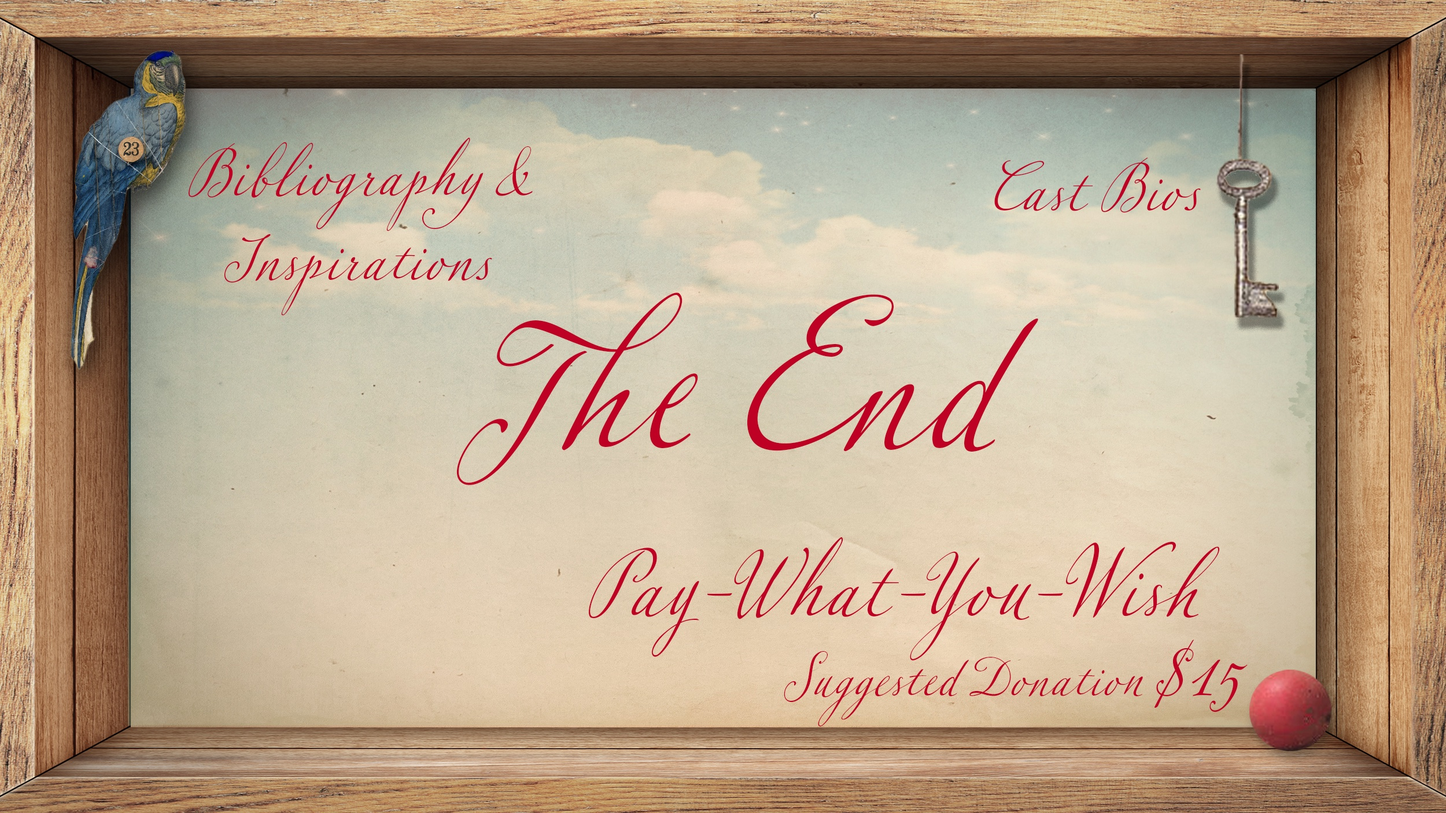
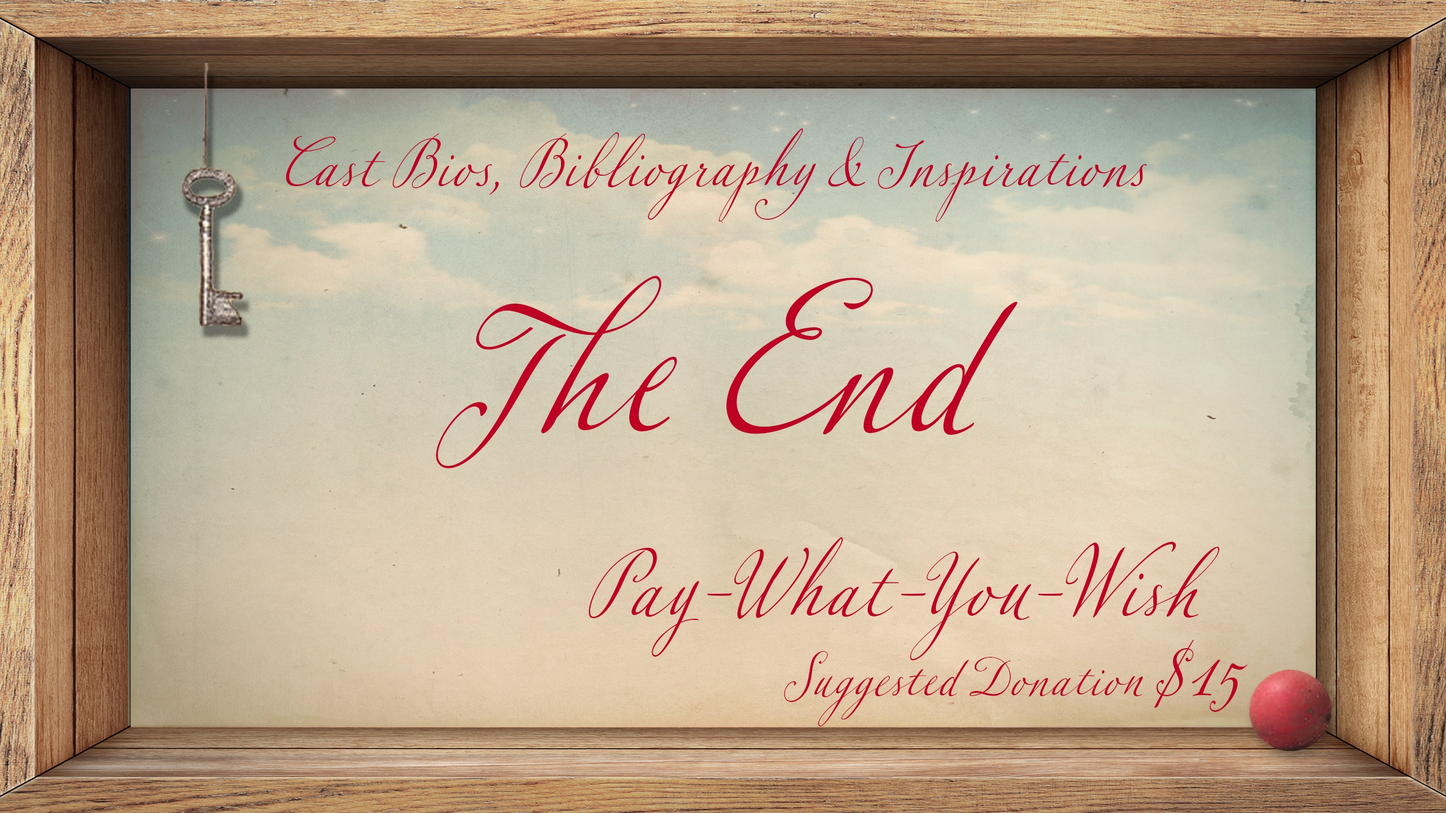
updates

Changed region(s): [[0.0312, 0.0612, 0.8112, 0.4587], [0.312, 0.3364, 0.7176, 0.6117], [0.8424, 0.1223, 0.9048, 0.4282]]

diff --git a/js/juxtapose.js b/js/juxtapose.js
@@ -244,7 +244,7 @@ function CastRoom(name, slugs) {
 
                 _.delay(function(){
                     $('.landing-credits').fadeIn();
-                }, 10000);
+                }, 7000);
             }, 2000);
         }, 3000);
     };
@@ -372,7 +372,7 @@ $('#button-play').on('click', function(){
                         $('.landing-here').fadeOut(function(){
                             _.delay(function(){
                                 prez.goto('windows-page', 30000); // 30sec
-                                windowRoom.fadeAudio(0.75, 30000);
+                                windowRoom.fadeAudio(1, 30000);
                             }, 5000); // 5sec
                         });
                     }, 5000); // 5sec

diff --git a/index.html b/index.html
@@ -42,10 +42,6 @@
             <div class="landing-credits">
                 <img class="credit-img" src="img/credits.jpg" />
 
-                <a href="https://www.happenstancetheater.com/juxtapose-tenement" target="_blank" class="room-button credits-parrot heartbeat">
-                    <img src="img/parrot.png" />
-                </a>
-
                 <a href="https://www.happenstancetheater.com/juxtapose-tenement" target="_blank" class="room-button credits-key wobble">
                     <img src="img/key.png" />
                 </a>

diff --git a/styles/happenstance.css b/styles/happenstance.css
@@ -272,11 +272,6 @@ button.room-button:active {
 }
 
 /* Credit Buttons */
-.landing-credits .credits-parrot {
-    width: 8%;
-    top: 10%;
-    left: 8.8%;
-}
 .landing-credits .credits-ball {
     width: 5.3%;
     top: 79%;
@@ -284,8 +279,8 @@ button.room-button:active {
 }
 .landing-credits .credits-key {
     width: 4.7%;
-    top: 11%;
-    left: 80.5%;
+    top: 11.8%;
+    left: 16.3%;
 }
 
 
